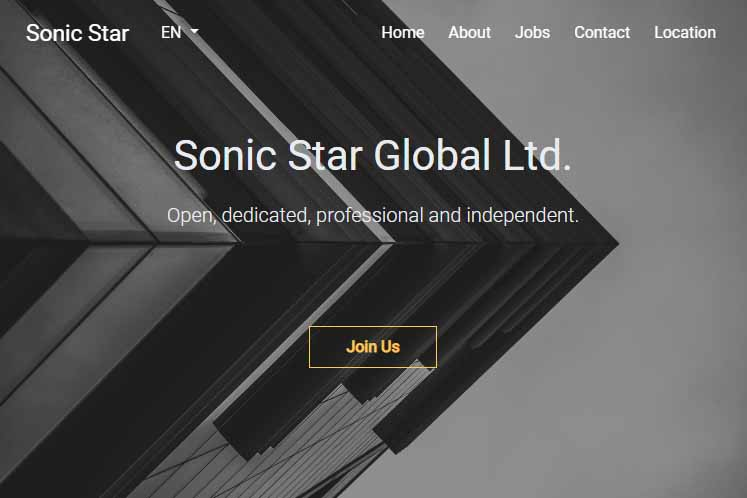
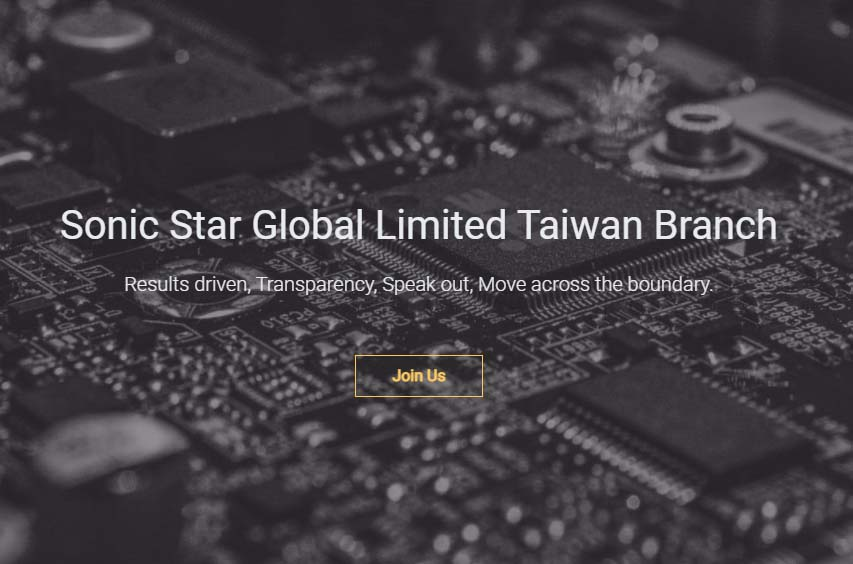
replace ogimg & title

diff --git a/public/index.html b/public/index.html
@@ -20,11 +20,7 @@
     <meta property="og:image:height" content="400" />
     <meta name="google-site-verification" content="o8UdQYjkgnryX1FtxVdGCTZjA4nssVcR1fAlzjSlcMI" />
     <link rel="icon" href="<%= BASE_URL %>favicon.ico" />
-    <link
-      rel="stylesheet"
-      href="https://cdn.jsdelivr.net/npm/bootstrap-icons@1.3.0/font/bootstrap-icons.css"
-    />
-    <title>Sonic Star Global Ltd. Open, dedicated, professional and independent.</title>
+    <title>Sonic Star Global Limited Taiwan Branch</title>
   </head>
   <body>
     <noscript>
@@ -35,5 +31,9 @@
     </noscript>
     <div id="app"></div>
     <!-- built files will be auto injected -->
+    <link
+      rel="stylesheet"
+      href="https://cdn.jsdelivr.net/npm/bootstrap-icons@1.3.0/font/bootstrap-icons.css"
+    />
   </body>
 </html>
